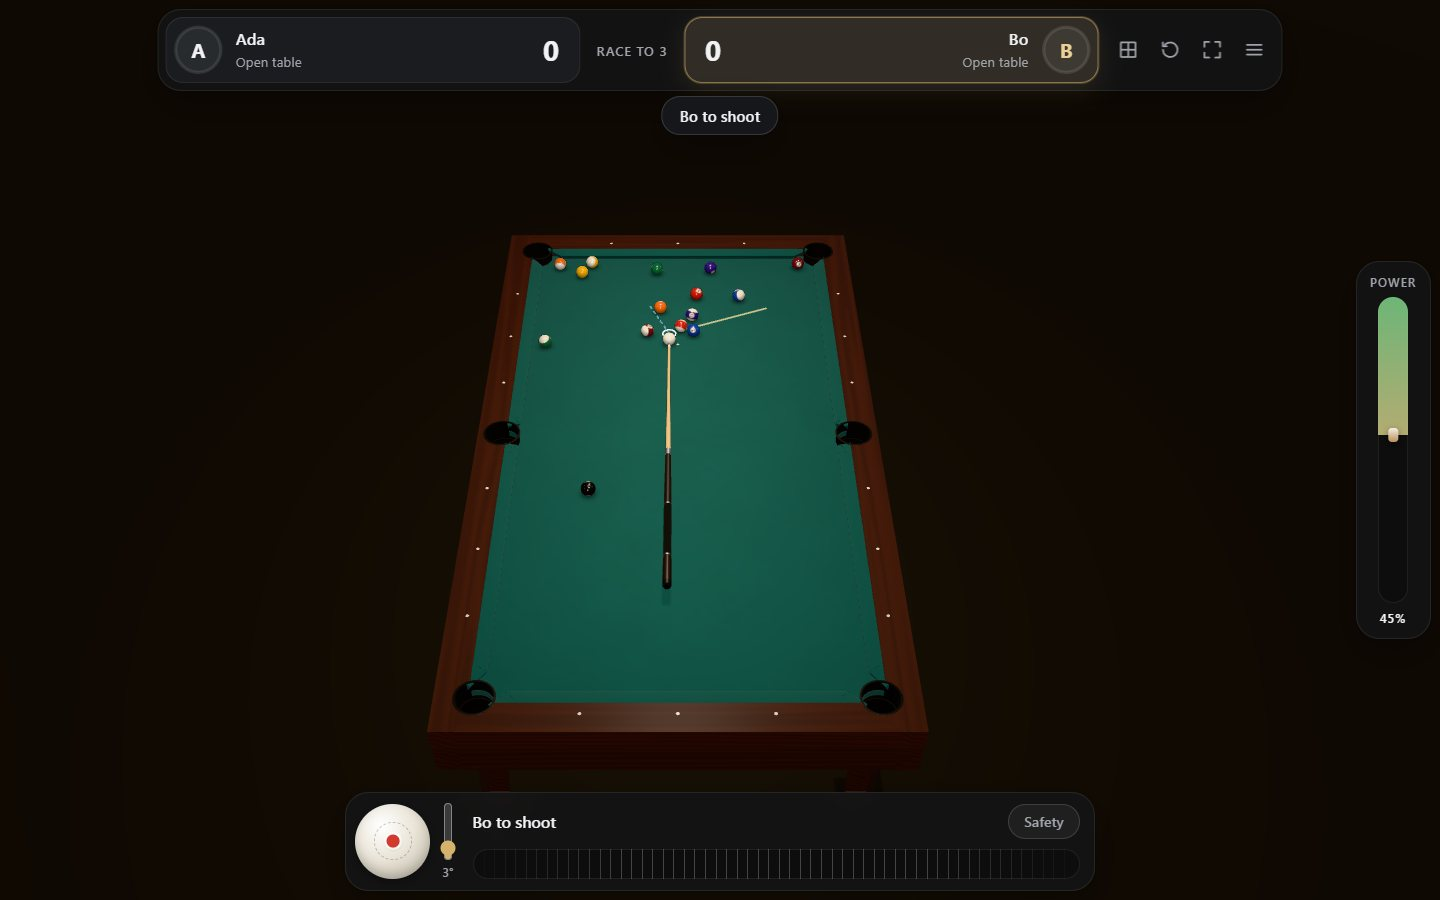
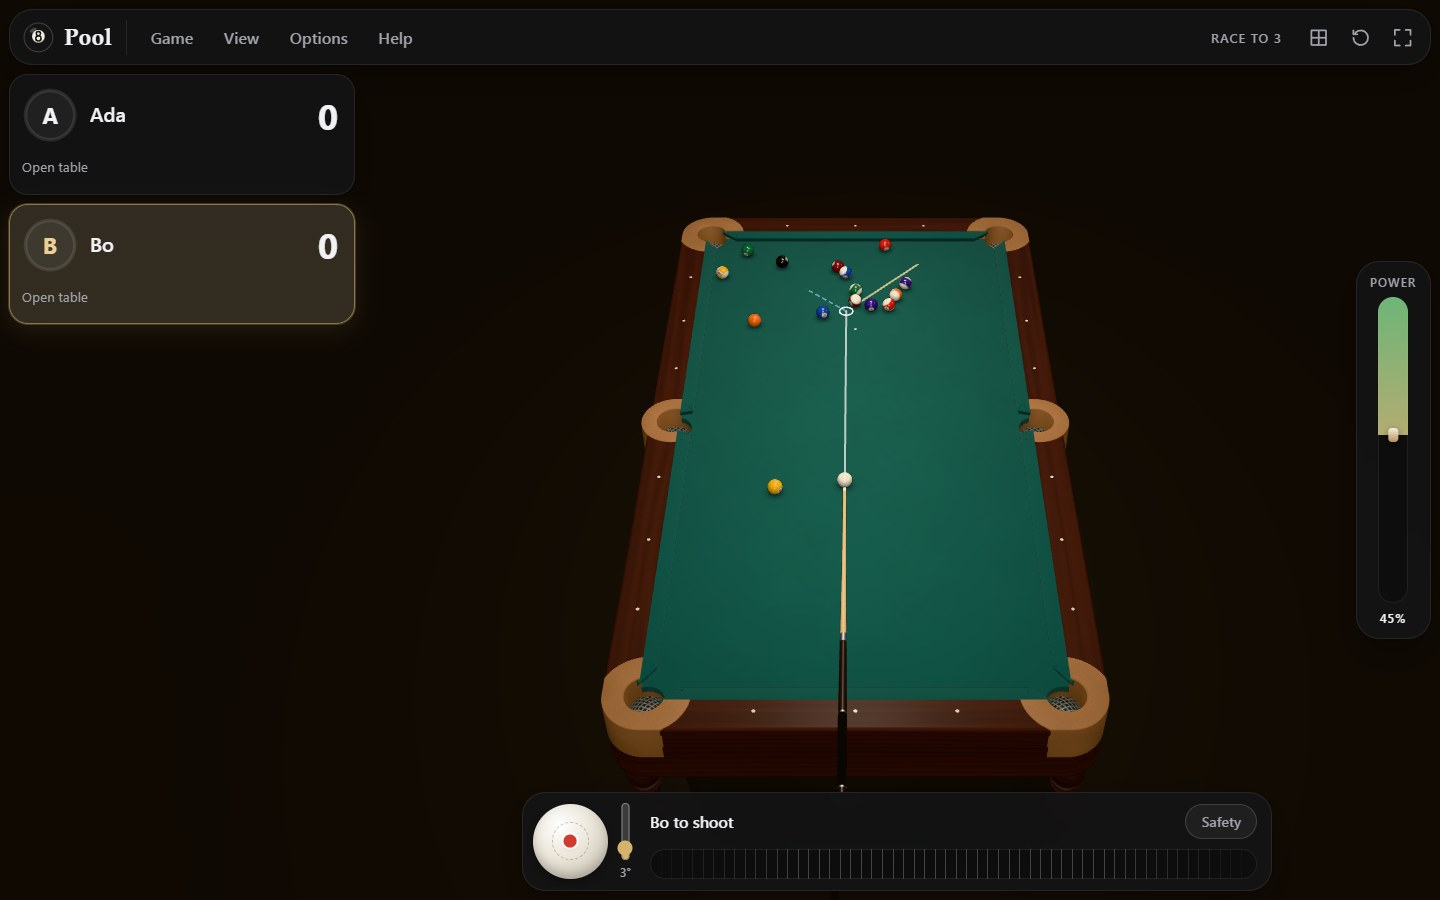
docs: retake the screenshots with the menu bar, large cards and new pockets
The README's three screenshots showed the interface before the menu bar,
the large player cards and the leather pockets with nets. They are taken
again the same way: a match between Ada and Bo after the first break,
from the production build at high quality on the computer's GPU, at
1440 by 900 for the 3D and top views and 390 by 844 at twice the pixels
for the phone, which keeps the small cards and the menu button. The
images' alt texts say what they now show, and their metadata is
stripped.

diff --git a/README.md b/README.md
@@ -4,7 +4,7 @@ A realistic 3D 8-ball game for the browser. Play on your own, against a friend o
 or against a friend online with voice and video, on a 9-foot tournament table or a 7-foot bar
 table, seen in 3D or straight from above.
 
-![A match in the 3D view](docs/screenshots/game-3d.jpg)
+![A match in the 3D view, with the menu bar along the top and the players' cards beside the table](docs/screenshots/game-3d.jpg)
 
 ## What is in it
 
@@ -38,7 +38,7 @@ table, seen in 3D or straight from above.
 
 | Top view | On a phone |
 |---|---|
-| ![The top view](docs/screenshots/top-view.jpg) | ![On a phone](docs/screenshots/phone.jpg) |
+| ![The top view](docs/screenshots/top-view.jpg) | ![On a phone, the cards small in the top bar](docs/screenshots/phone.jpg) |
 
 ## Playing
 
